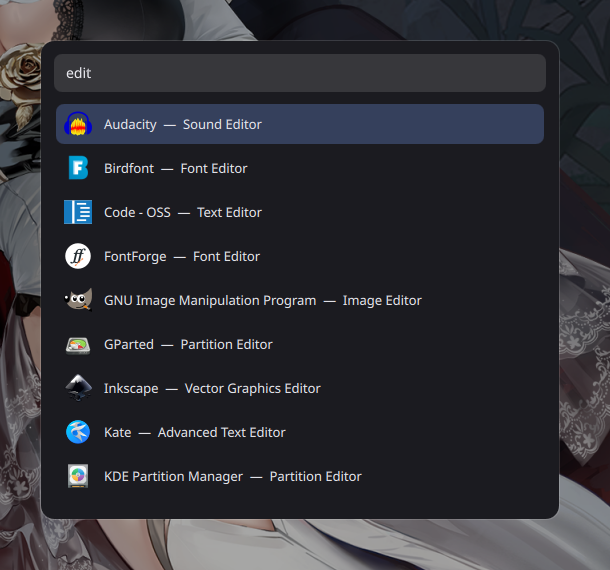
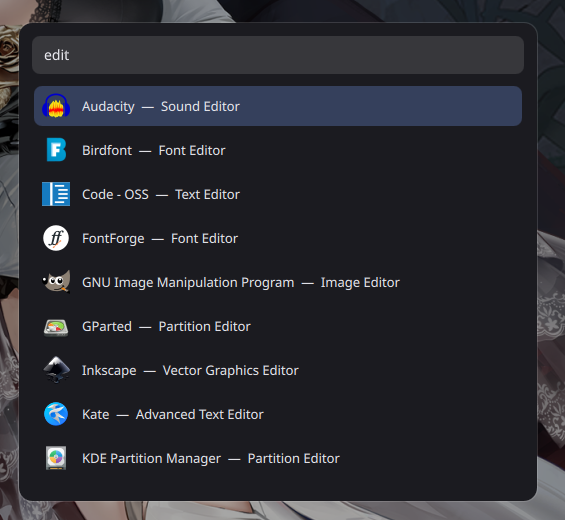
Prepare for public release
- Add MIT licence.
- Replace the three screenshots with crops of the feature itself rather than
  the whole desktop (the originals carried the test machine's wallpaper).
- Show the Add app… picker and overlay mode inline in the README.
- Correct the end-4 left-margin advice: the vertical bar reserves 46px, not
  ~506px. The 506 figure was the toggleable SUPER+A left sidebar, which covers
  x 46-806 when open.
- Document the Lua form of hyprctl dispatch for workspace switching.
- Record that a plain file item and live config reload are now verified, and
  that theme tier 2 has been confirmed on screen.

Changed region(s): [[0.0, 0.0, 1.0, 1.0], [0.6319, 0.0, 0.6619, 0.0308]]

diff --git a/README.md b/README.md
@@ -62,6 +62,8 @@ from another one.
 Right-click anywhere on the empty wallpaper → **Add app…** → start typing the
 name of the app → press Enter. The icon appears where you right-clicked.
 
+![The Add app… picker, filtered](docs/screenshot-add-app.png)
+
 You can also **drag a `.desktop` file** (or any file or folder) from your file
 manager onto the desktop and it becomes an icon.
 
@@ -122,6 +124,8 @@ can bind a key that puts the same grid on top of everything with a dimmed
 background, like the Windows Start screen. Press it again (or Escape, or click
 away) to dismiss it.
 
+![The same grid in overlay mode, dimmed over whatever is on screen](docs/screenshot-overlay.png)
+
 **First check the key is free on your machine:**
 
 ```bash
@@ -176,10 +180,13 @@ Quickshell identifies an instance by its **config path**, so this is a separate
 instance from your end-4 shell. Never run a bare `qs kill` — that takes your
 bar, dock and wallpaper with it.
 
-**The first column lands under your bar.** end-4 reserves roughly the left
-506px. In `~/.config/omarchy-desktop-icons/config.json`, set
-`geometry.margins.left` to about `560`, or set `geometry.anchor` to
-`"top-right"`.
+**Give the first column some left margin.** Measured on a 3440x1440 end-4
+session: the vertical bar is 69px wide and reserves 46px, so
+`geometry.margins.left` of about `110` clears it. The *left sidebar*
+(`SUPER + A`) is a different thing — when it is open it covers x 46–806, and it
+will sit over your icons. If you usually keep it open, set
+`geometry.margins.left` to about `830`, or set `geometry.anchor` to
+`"top-right"` and forget about it.
 
 **`SUPER+I` is already end-4's Settings app.** Use `SUPER+SHIFT+I` for the
 overlay bind in step 5.
@@ -202,7 +209,18 @@ $ hyprctl layers
 Hyprland (end-4, and current Omarchy master) `hyprctl dispatch exec foo` fails
 with `')' expected near ...`; it wants `hyprctl dispatch 'hl.dsp.exec_cmd("foo")'`.
 `Apps.qml` tries the classic form first and falls back to the Lua one, so
-`Open on new workspace` works on both. Worth knowing if you script against it.
+`Open on new workspace` works on both. Worth knowing if you script against it —
+the same applies to anything else you dispatch. Switching workspace, for
+instance:
+
+```bash
+hyprctl dispatch workspace 3                      # classic — fails on a Lua config
+hyprctl dispatch 'hl.dsp.focus({ workspace = 3 })'  # Lua form
+```
+
+Note the dispatchers are nested tables, so `hl.dsp.workspace(3)` is not it;
+`hl.dispatch: expected a dispatcher (e.g. hl.dsp.window.close())` is the error
+you get when you guess wrong.
 
 ## The config file
 
@@ -303,14 +321,18 @@ dying); single-click select; drag-to-reposition with grid snap and persistence;
 both context menus and the icon-size submenu; Escape and click-away dismissal;
 the searchable `Add app…` picker; rename and remove; live icon resizing; atomic
 config writes and `Reload config`; the overlay mode over IPC; middle-click to a
-new workspace.
+new workspace. Also: a **plain file item** (`"exec": "xdg-open '…/README.md'"`,
+no `desktop_id`) double-clicked open in the system's default handler, and
+editing `config.json` by hand reflowed the live grid without a restart.
 
-**Verified against fixtures, not a real box:** the theme chain above. All three
-tiers were exercised — tier 1 against synthetic Omarchy theme directories (dark
-and light), tier 2 against a real end-4 `material_colors.scss`, tier 3 with
-both absent — and tier 1 correctly wins when both are present. The Omarchy
-fixtures match the documented `light.mode` / `col.active_border` convention, but
-a genuine Omarchy theme may still surprise it.
+**Verified against fixtures, not a real box:** the Omarchy tier of the theme
+chain above. All three tiers were exercised — tier 1 against synthetic Omarchy
+theme directories (dark and light), tier 2 against a real end-4
+`material_colors.scss`, tier 3 with both absent — and tier 1 correctly wins when
+both are present. Tier 2 has since also been confirmed *on screen*: on an end-4
+session with `$darkmode: False` the menus render light, matching the shell.
+The Omarchy fixtures match the documented `light.mode` / `col.active_border`
+convention, but a genuine Omarchy theme may still surprise it.
 
 **Not verified at all:** *drag-and-drop to add an icon*. The `DropArea` is
 written and reviewed but no Wayland drag source was available to script against
